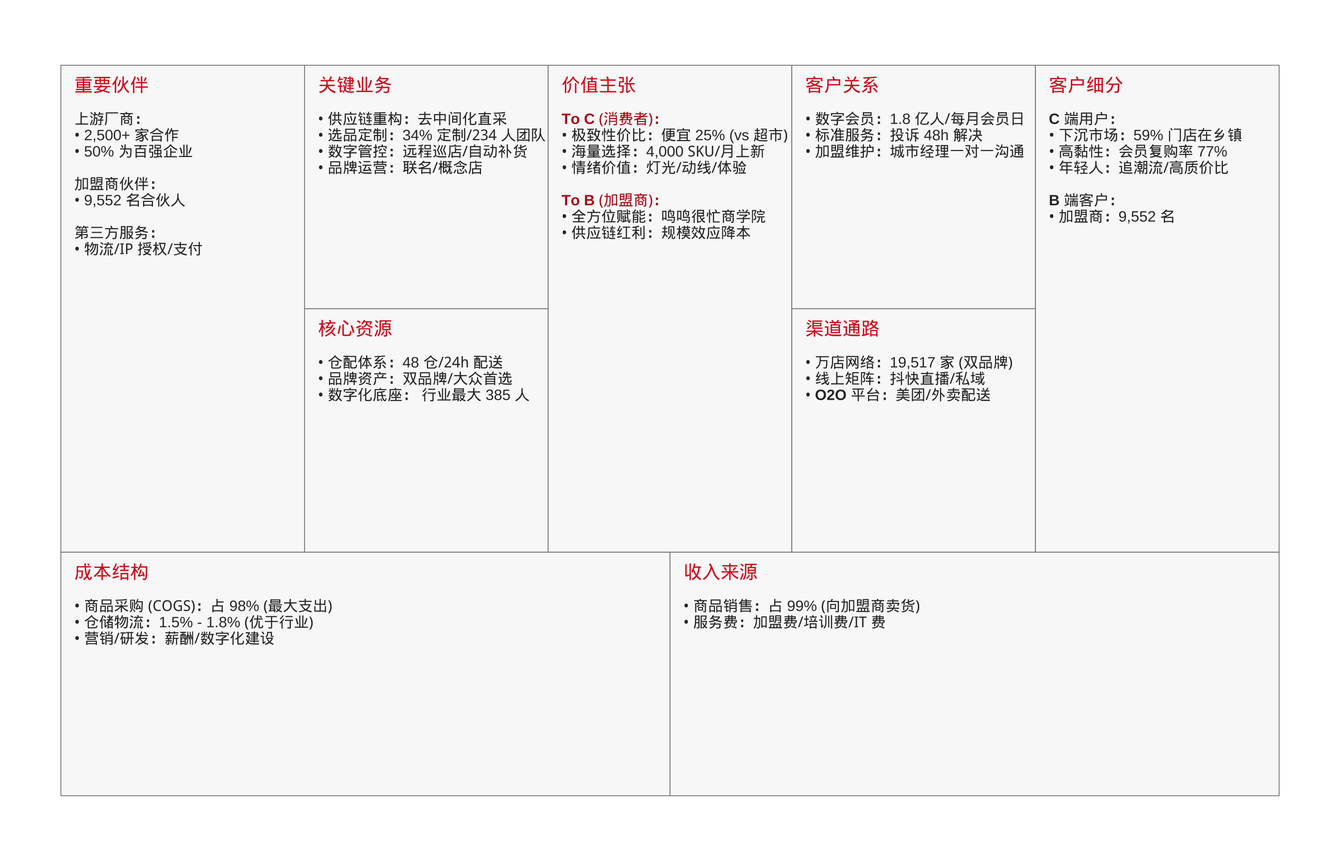
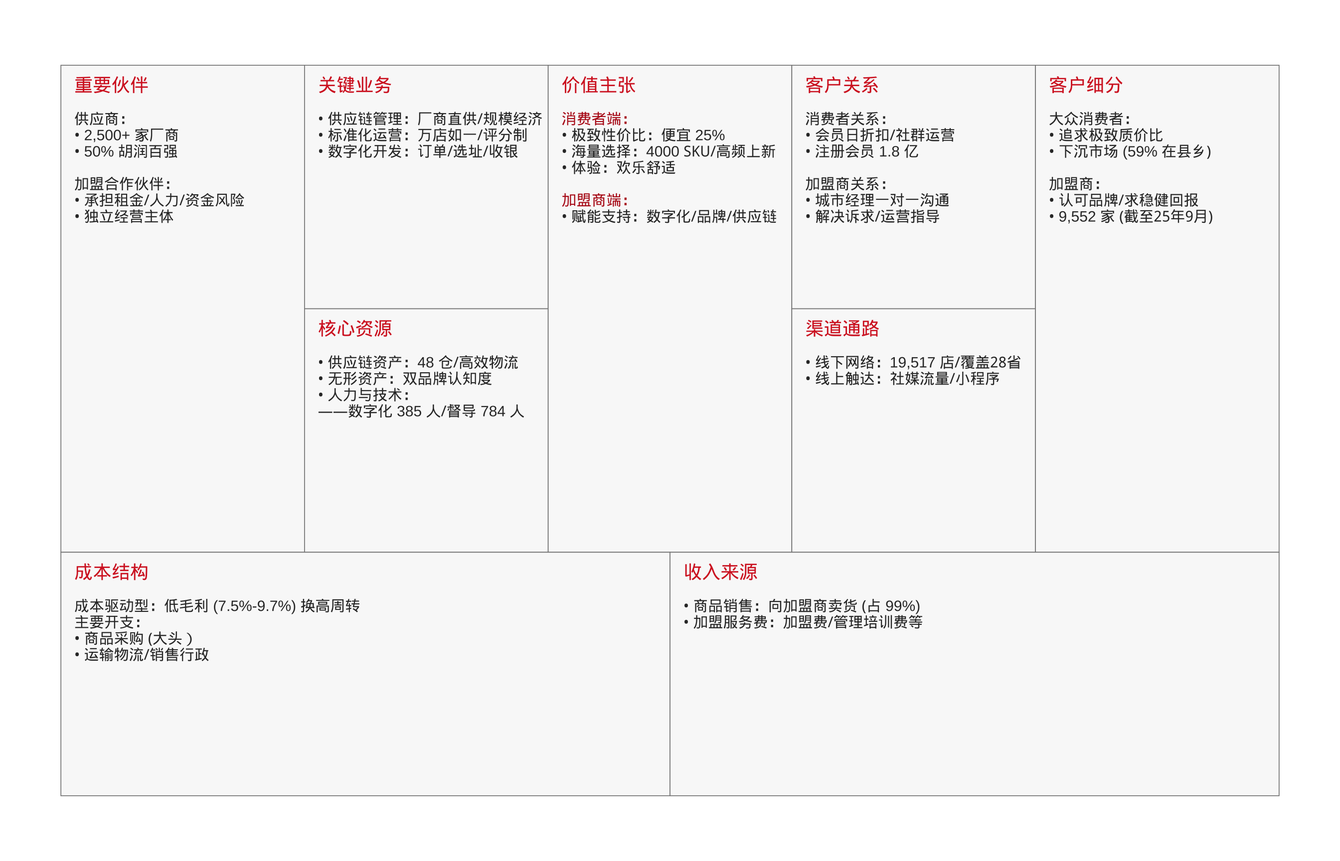
Built site for gh-pages

diff --git a/index.html b/index.html
@@ -237,7 +237,7 @@ window.Quarto = {
 
 <div class="quarto-listing quarto-listing-container-default" id="listing-listing">
 <div class="list quarto-listing-default">
-<div class="quarto-post image-right" data-index="0" data-categories="JUU2JThBJTk1JUU3JUEwJTk0JUU3JUFDJTk0JUU4JUFFJUIw" data-listing-date-sort="1768608000000" data-listing-file-modified-sort="1769174898353" data-listing-date-modified-sort="1769174898000" data-listing-reading-time-sort="4" data-listing-word-count-sort="635">
+<div class="quarto-post image-right" data-index="0" data-categories="JUU2JThBJTk1JUU3JUEwJTk0JUU3JUFDJTk0JUU4JUFFJUIw" data-listing-date-sort="1768608000000" data-listing-file-modified-sort="1769270650529" data-listing-date-modified-sort="1769270650000" data-listing-reading-time-sort="4" data-listing-word-count-sort="614">
 <div class="thumbnail"><a href="./posts/2026-01-17-busy-ming/index.html" class="no-external">
 
 <img loading="lazy" src="./posts/2026-01-17-busy-ming/busy-ming.png" class="thumbnail-image">
@@ -265,7 +265,7 @@ window.Quarto = {
 </a>
 </div>
 </div>
-<div class="quarto-post image-right" data-index="1" data-categories="JUU3JTk0JTlGJUU2JUI0JUJCJUU5JTlBJThGJUU3JUFDJTk0" data-listing-date-sort="1768089600000" data-listing-file-modified-sort="1769174898350" data-listing-date-modified-sort="1769174898000" data-listing-reading-time-sort="1" data-listing-word-count-sort="9">
+<div class="quarto-post image-right" data-index="1" data-categories="JUU3JTk0JTlGJUU2JUI0JUJCJUU5JTlBJThGJUU3JUFDJTk0" data-listing-date-sort="1768089600000" data-listing-file-modified-sort="1769270650526" data-listing-date-modified-sort="1769270650000" data-listing-reading-time-sort="1" data-listing-word-count-sort="9">
 <div class="thumbnail"><a href="./posts/2026-01-11-your-name/index.html" class="no-external">
 
 <img loading="lazy" src="./posts/2026-01-11-your-name/yebao.jpeg" class="thumbnail-image">
@@ -293,7 +293,7 @@ window.Quarto = {
 </a>
 </div>
 </div>
-<div class="quarto-post image-right" data-index="2" data-categories="JUU1JTg1JUIxJUU3JTk0JTlGJUU2JTk5JUJBJUU4JTgzJUJE" data-listing-date-sort="1767571200000" data-listing-file-modified-sort="1769174898349" data-listing-date-modified-sort="1769174898000" data-listing-reading-time-sort="2" data-listing-word-count-sort="244">
+<div class="quarto-post image-right" data-index="2" data-categories="JUU1JTg1JUIxJUU3JTk0JTlGJUU2JTk5JUJBJUU4JTgzJUJE" data-listing-date-sort="1767571200000" data-listing-file-modified-sort="1769270650525" data-listing-date-modified-sort="1769270650000" data-listing-reading-time-sort="2" data-listing-word-count-sort="244">
 <div class="thumbnail"><a href="./posts/2026-01-05-private-windows-rdp-with-tailscale/index.html" class="no-external">
 
 <img loading="lazy" src="./posts/2026-01-05-private-windows-rdp-with-tailscale/vera-lee-bird-kb4M9f0_sVo-unsplash.jpg" class="thumbnail-image">
@@ -321,7 +321,7 @@ window.Quarto = {
 </a>
 </div>
 </div>
-<div class="quarto-post image-right" data-index="3" data-categories="JUU1JTg1JUIxJUU3JTk0JTlGJUU2JTk5JUJBJUU4JTgzJUJE" data-listing-date-sort="1767312000000" data-listing-file-modified-sort="1769174898349" data-listing-date-modified-sort="1769174898000" data-listing-reading-time-sort="1" data-listing-word-count-sort="194">
+<div class="quarto-post image-right" data-index="3" data-categories="JUU1JTg1JUIxJUU3JTk0JTlGJUU2JTk5JUJBJUU4JTgzJUJE" data-listing-date-sort="1767312000000" data-listing-file-modified-sort="1769270650525" data-listing-date-modified-sort="1769270650000" data-listing-reading-time-sort="1" data-listing-word-count-sort="194">
 <div class="thumbnail"><a href="./posts/2026-01-02-when-code-feels-like-drowning/index.html" class="no-external">
 
 <img loading="lazy" src="./posts/2026-01-02-when-code-feels-like-drowning/ddp-gF61AW7IOZs-unsplash.jpg" class="thumbnail-image">
@@ -349,7 +349,7 @@ window.Quarto = {
 </a>
 </div>
 </div>
-<div class="quarto-post image-right" data-index="4" data-categories="JUU2JThBJTk1JUU3JUEwJTk0JUU3JUFDJTk0JUU4JUFFJUIw" data-listing-date-sort="1757203200000" data-listing-file-modified-sort="1769174898349" data-listing-date-modified-sort="1769174898000" data-listing-reading-time-sort="2" data-listing-word-count-sort="328">
+<div class="quarto-post image-right" data-index="4" data-categories="JUU2JThBJTk1JUU3JUEwJTk0JUU3JUFDJTk0JUU4JUFFJUIw" data-listing-date-sort="1757203200000" data-listing-file-modified-sort="1769270650525" data-listing-date-modified-sort="1769270650000" data-listing-reading-time-sort="2" data-listing-word-count-sort="328">
 <div class="thumbnail"><a href="./posts/2025-09-06-a-tradable-measure-of-the-us-china-yield-spread/index.html" class="no-external">
 
 <img loading="lazy" src="./posts/2025-09-06-a-tradable-measure-of-the-us-china-yield-spread/image/portrait_john_maynard_keynes_hi.jpg" class="thumbnail-image">
@@ -377,7 +377,7 @@ window.Quarto = {
 </a>
 </div>
 </div>
-<div class="quarto-post image-right" data-index="5" data-categories="JUU2JThBJTk1JUU3JUEwJTk0JUU3JUFDJTk0JUU4JUFFJUIw" data-listing-date-sort="1751328000000" data-listing-file-modified-sort="1769174898348" data-listing-date-modified-sort="1769174898000" data-listing-reading-time-sort="1" data-listing-word-count-sort="56">
+<div class="quarto-post image-right" data-index="5" data-categories="JUU2JThBJTk1JUU3JUEwJTk0JUU3JUFDJTk0JUU4JUFFJUIw" data-listing-date-sort="1751328000000" data-listing-file-modified-sort="1769270650524" data-listing-date-modified-sort="1769270650000" data-listing-reading-time-sort="1" data-listing-word-count-sort="56">
 <div class="thumbnail"><a href="./posts/2025-07-01-beijing-shougang-lanzatech/index.html" class="no-external">
 
 <img loading="lazy" src="./posts/2025-07-01-beijing-shougang-lanzatech/image/ronan-furuta-MTPVwuNEn9Q-unsplash.jpg" class="thumbnail-image">
@@ -405,7 +405,7 @@ window.Quarto = {
 </a>
 </div>
 </div>
-<div class="quarto-post image-right" data-index="6" data-categories="JUU1JTg1JUIxJUU3JTk0JTlGJUU2JTk5JUJBJUU4JTgzJUJE" data-listing-date-sort="1749340800000" data-listing-file-modified-sort="1769174898346" data-listing-date-modified-sort="1769174898000" data-listing-reading-time-sort="4" data-listing-word-count-sort="730">
+<div class="quarto-post image-right" data-index="6" data-categories="JUU1JTg1JUIxJUU3JTk0JTlGJUU2JTk5JUJBJUU4JTgzJUJE" data-listing-date-sort="1749340800000" data-listing-file-modified-sort="1769270650522" data-listing-date-modified-sort="1769270650000" data-listing-reading-time-sort="4" data-listing-word-count-sort="730">
 <div class="thumbnail"><a href="./posts/2025-06-08-tableau-server-single-node-quick-deployment/index.html" class="no-external">
 
 <img loading="lazy" src="./posts/2025-06-08-tableau-server-single-node-quick-deployment/image/ayush-kumar-UltEQuF-MII-unsplash.jpg" class="thumbnail-image">
@@ -433,7 +433,7 @@ window.Quarto = {
 </a>
 </div>
 </div>
-<div class="quarto-post image-right" data-index="7" data-categories="JUU1JTg1JUIxJUU3JTk0JTlGJUU2JTk5JUJBJUU4JTgzJUJE" data-listing-date-sort="1707004800000" data-listing-file-modified-sort="1769174898339" data-listing-date-modified-sort="1769174898000" data-listing-reading-time-sort="2" data-listing-word-count-sort="312">
+<div class="quarto-post image-right" data-index="7" data-categories="JUU1JTg1JUIxJUU3JTk0JTlGJUU2JTk5JUJBJUU4JTgzJUJE" data-listing-date-sort="1707004800000" data-listing-file-modified-sort="1769270650515" data-listing-date-modified-sort="1769270650000" data-listing-reading-time-sort="2" data-listing-word-count-sort="312">
 <div class="thumbnail"><a href="./posts/2024-02-04-reproducible-industry-research-report/index.html" class="no-external">
 
 <img loading="lazy" src="./posts/2024-02-04-reproducible-industry-research-report/image/gabriel-sollmann-Y7d265_7i08-unsplash.jpg" class="thumbnail-image">
@@ -461,7 +461,7 @@ window.Quarto = {
 </a>
 </div>
 </div>
-<div class="quarto-post image-right" data-index="8" data-categories="JUU2JThBJTk1JUU3JUEwJTk0JUU3JUFDJTk0JUU4JUFFJUIw" data-listing-date-sort="1687219200000" data-listing-file-modified-sort="1769174898328" data-listing-date-modified-sort="NaN" data-listing-reading-time-sort="12" data-listing-word-count-sort="2251">
+<div class="quarto-post image-right" data-index="8" data-categories="JUU2JThBJTk1JUU3JUEwJTk0JUU3JUFDJTk0JUU4JUFFJUIw" data-listing-date-sort="1687219200000" data-listing-file-modified-sort="1769270650504" data-listing-date-modified-sort="NaN" data-listing-reading-time-sort="12" data-listing-word-count-sort="2251">
 <div class="thumbnail"><a href="./posts/2023-06-20-sf-express/index.html" class="no-external">
 
 <img loading="lazy" src="./posts/2023-06-20-sf-express/image/jaanus-jagomagi-U7vum_kpfAo-unsplash.jpg" class="thumbnail-image">
@@ -489,7 +489,7 @@ window.Quarto = {
 </a>
 </div>
 </div>
-<div class="quarto-post image-right" data-index="9" data-categories="JUU3JTk0JTlGJUU2JUI0JUJCJUU5JTlBJThGJUU3JUFDJTk0" data-listing-date-sort="1588291200000" data-listing-file-modified-sort="1769174898340" data-listing-date-modified-sort="1769174898000" data-listing-reading-time-sort="1" data-listing-word-count-sort="92">
+<div class="quarto-post image-right" data-index="9" data-categories="JUU3JTk0JTlGJUU2JUI0JUJCJUU5JTlBJThGJUU3JUFDJTk0" data-listing-date-sort="1588291200000" data-listing-file-modified-sort="1769270650516" data-listing-date-modified-sort="1769270650000" data-listing-reading-time-sort="1" data-listing-word-count-sort="92">
 <div class="thumbnail"><a href="./posts/2024-05-22-steam-mini-lobster/index.html" class="no-external">
 
 <img loading="lazy" data-src="./posts/2024-05-22-steam-mini-lobster/image/pose.jpg" class="thumbnail-image">

diff --git a/columns/hybrid.html b/columns/hybrid.html
@@ -250,7 +250,7 @@ window.Quarto = {
 
 <div class="quarto-listing quarto-listing-container-default" id="listing-listing">
 <div class="list quarto-listing-default">
-<div class="quarto-post image-right" data-index="0" data-categories="JUU1JTg1JUIxJUU3JTk0JTlGJUU2JTk5JUJBJUU4JTgzJUJE" data-listing-date-sort="1767571200000" data-listing-file-modified-sort="1769174898349" data-listing-date-modified-sort="1769174898000" data-listing-reading-time-sort="2" data-listing-word-count-sort="244">
+<div class="quarto-post image-right" data-index="0" data-categories="JUU1JTg1JUIxJUU3JTk0JTlGJUU2JTk5JUJBJUU4JTgzJUJE" data-listing-date-sort="1767571200000" data-listing-file-modified-sort="1769270650525" data-listing-date-modified-sort="1769270650000" data-listing-reading-time-sort="2" data-listing-word-count-sort="244">
 <div class="thumbnail"><a href="../posts/2026-01-05-private-windows-rdp-with-tailscale/index.html" class="no-external">
 
 <img loading="lazy" src="../posts/2026-01-05-private-windows-rdp-with-tailscale/vera-lee-bird-kb4M9f0_sVo-unsplash.jpg" class="thumbnail-image">
@@ -278,7 +278,7 @@ window.Quarto = {
 </a>
 </div>
 </div>
-<div class="quarto-post image-right" data-index="1" data-categories="JUU1JTg1JUIxJUU3JTk0JTlGJUU2JTk5JUJBJUU4JTgzJUJE" data-listing-date-sort="1767312000000" data-listing-file-modified-sort="1769174898349" data-listing-date-modified-sort="1769174898000" data-listing-reading-time-sort="1" data-listing-word-count-sort="194">
+<div class="quarto-post image-right" data-index="1" data-categories="JUU1JTg1JUIxJUU3JTk0JTlGJUU2JTk5JUJBJUU4JTgzJUJE" data-listing-date-sort="1767312000000" data-listing-file-modified-sort="1769270650525" data-listing-date-modified-sort="1769270650000" data-listing-reading-time-sort="1" data-listing-word-count-sort="194">
 <div class="thumbnail"><a href="../posts/2026-01-02-when-code-feels-like-drowning/index.html" class="no-external">
 
 <img loading="lazy" src="../posts/2026-01-02-when-code-feels-like-drowning/ddp-gF61AW7IOZs-unsplash.jpg" class="thumbnail-image">
@@ -306,7 +306,7 @@ window.Quarto = {
 </a>
 </div>
 </div>
-<div class="quarto-post image-right" data-index="2" data-categories="JUU1JTg1JUIxJUU3JTk0JTlGJUU2JTk5JUJBJUU4JTgzJUJE" data-listing-date-sort="1749340800000" data-listing-file-modified-sort="1769174898346" data-listing-date-modified-sort="1769174898000" data-listing-reading-time-sort="4" data-listing-word-count-sort="730">
+<div class="quarto-post image-right" data-index="2" data-categories="JUU1JTg1JUIxJUU3JTk0JTlGJUU2JTk5JUJBJUU4JTgzJUJE" data-listing-date-sort="1749340800000" data-listing-file-modified-sort="1769270650522" data-listing-date-modified-sort="1769270650000" data-listing-reading-time-sort="4" data-listing-word-count-sort="730">
 <div class="thumbnail"><a href="../posts/2025-06-08-tableau-server-single-node-quick-deployment/index.html" class="no-external">
 
 <img loading="lazy" src="../posts/2025-06-08-tableau-server-single-node-quick-deployment/image/ayush-kumar-UltEQuF-MII-unsplash.jpg" class="thumbnail-image">
@@ -334,7 +334,7 @@ window.Quarto = {
 </a>
 </div>
 </div>
-<div class="quarto-post image-right" data-index="3" data-categories="JUU1JTg1JUIxJUU3JTk0JTlGJUU2JTk5JUJBJUU4JTgzJUJE" data-listing-date-sort="1707004800000" data-listing-file-modified-sort="1769174898339" data-listing-date-modified-sort="1769174898000" data-listing-reading-time-sort="2" data-listing-word-count-sort="312">
+<div class="quarto-post image-right" data-index="3" data-categories="JUU1JTg1JUIxJUU3JTk0JTlGJUU2JTk5JUJBJUU4JTgzJUJE" data-listing-date-sort="1707004800000" data-listing-file-modified-sort="1769270650515" data-listing-date-modified-sort="1769270650000" data-listing-reading-time-sort="2" data-listing-word-count-sort="312">
 <div class="thumbnail"><a href="../posts/2024-02-04-reproducible-industry-research-report/index.html" class="no-external">
 
 <img loading="lazy" src="../posts/2024-02-04-reproducible-industry-research-report/image/gabriel-sollmann-Y7d265_7i08-unsplash.jpg" class="thumbnail-image">

diff --git a/columns/symbiotic-ai.html b/columns/symbiotic-ai.html
@@ -250,7 +250,7 @@ window.Quarto = {
 
 <div class="quarto-listing quarto-listing-container-default" id="listing-listing">
 <div class="list quarto-listing-default">
-<div class="quarto-post image-right" data-index="0" data-categories="JUU1JTg1JUIxJUU3JTk0JTlGJUU2JTk5JUJBJUU4JTgzJUJE" data-listing-date-sort="1767571200000" data-listing-file-modified-sort="1769174898349" data-listing-date-modified-sort="1769174898000" data-listing-reading-time-sort="2" data-listing-word-count-sort="244">
+<div class="quarto-post image-right" data-index="0" data-categories="JUU1JTg1JUIxJUU3JTk0JTlGJUU2JTk5JUJBJUU4JTgzJUJE" data-listing-date-sort="1767571200000" data-listing-file-modified-sort="1769270650525" data-listing-date-modified-sort="1769270650000" data-listing-reading-time-sort="2" data-listing-word-count-sort="244">
 <div class="thumbnail"><a href="../posts/2026-01-05-private-windows-rdp-with-tailscale/index.html" class="no-external">
 
 <img loading="lazy" src="../posts/2026-01-05-private-windows-rdp-with-tailscale/vera-lee-bird-kb4M9f0_sVo-unsplash.jpg" class="thumbnail-image">
@@ -278,7 +278,7 @@ window.Quarto = {
 </a>
 </div>
 </div>
-<div class="quarto-post image-right" data-index="1" data-categories="JUU1JTg1JUIxJUU3JTk0JTlGJUU2JTk5JUJBJUU4JTgzJUJE" data-listing-date-sort="1767312000000" data-listing-file-modified-sort="1769174898349" data-listing-date-modified-sort="1769174898000" data-listing-reading-time-sort="1" data-listing-word-count-sort="194">
+<div class="quarto-post image-right" data-index="1" data-categories="JUU1JTg1JUIxJUU3JTk0JTlGJUU2JTk5JUJBJUU4JTgzJUJE" data-listing-date-sort="1767312000000" data-listing-file-modified-sort="1769270650525" data-listing-date-modified-sort="1769270650000" data-listing-reading-time-sort="1" data-listing-word-count-sort="194">
 <div class="thumbnail"><a href="../posts/2026-01-02-when-code-feels-like-drowning/index.html" class="no-external">
 
 <img loading="lazy" src="../posts/2026-01-02-when-code-feels-like-drowning/ddp-gF61AW7IOZs-unsplash.jpg" class="thumbnail-image">
@@ -306,7 +306,7 @@ window.Quarto = {
 </a>
 </div>
 </div>
-<div class="quarto-post image-right" data-index="2" data-categories="JUU1JTg1JUIxJUU3JTk0JTlGJUU2JTk5JUJBJUU4JTgzJUJE" data-listing-date-sort="1749340800000" data-listing-file-modified-sort="1769174898346" data-listing-date-modified-sort="1769174898000" data-listing-reading-time-sort="4" data-listing-word-count-sort="730">
+<div class="quarto-post image-right" data-index="2" data-categories="JUU1JTg1JUIxJUU3JTk0JTlGJUU2JTk5JUJBJUU4JTgzJUJE" data-listing-date-sort="1749340800000" data-listing-file-modified-sort="1769270650522" data-listing-date-modified-sort="1769270650000" data-listing-reading-time-sort="4" data-listing-word-count-sort="730">
 <div class="thumbnail"><a href="../posts/2025-06-08-tableau-server-single-node-quick-deployment/index.html" class="no-external">
 
 <img loading="lazy" src="../posts/2025-06-08-tableau-server-single-node-quick-deployment/image/ayush-kumar-UltEQuF-MII-unsplash.jpg" class="thumbnail-image">
@@ -334,7 +334,7 @@ window.Quarto = {
 </a>
 </div>
 </div>
-<div class="quarto-post image-right" data-index="3" data-categories="JUU1JTg1JUIxJUU3JTk0JTlGJUU2JTk5JUJBJUU4JTgzJUJE" data-listing-date-sort="1707004800000" data-listing-file-modified-sort="1769174898339" data-listing-date-modified-sort="1769174898000" data-listing-reading-time-sort="2" data-listing-word-count-sort="312">
+<div class="quarto-post image-right" data-index="3" data-categories="JUU1JTg1JUIxJUU3JTk0JTlGJUU2JTk5JUJBJUU4JTgzJUJE" data-listing-date-sort="1707004800000" data-listing-file-modified-sort="1769270650515" data-listing-date-modified-sort="1769270650000" data-listing-reading-time-sort="2" data-listing-word-count-sort="312">
 <div class="thumbnail"><a href="../posts/2024-02-04-reproducible-industry-research-report/index.html" class="no-external">
 
 <img loading="lazy" src="../posts/2024-02-04-reproducible-industry-research-report/image/gabriel-sollmann-Y7d265_7i08-unsplash.jpg" class="thumbnail-image">

diff --git a/columns/investment.html b/columns/investment.html
@@ -252,7 +252,7 @@ window.Quarto = {
 
 <div class="quarto-listing quarto-listing-container-default" id="listing-listing">
 <div class="list quarto-listing-default">
-<div class="quarto-post image-right" data-index="0" data-categories="JUU2JThBJTk1JUU3JUEwJTk0JUU3JUFDJTk0JUU4JUFFJUIw" data-listing-date-sort="1768608000000" data-listing-file-modified-sort="1769174898353" data-listing-date-modified-sort="1769174898000" data-listing-reading-time-sort="4" data-listing-word-count-sort="635">
+<div class="quarto-post image-right" data-index="0" data-categories="JUU2JThBJTk1JUU3JUEwJTk0JUU3JUFDJTk0JUU4JUFFJUIw" data-listing-date-sort="1768608000000" data-listing-file-modified-sort="1769270650529" data-listing-date-modified-sort="1769270650000" data-listing-reading-time-sort="4" data-listing-word-count-sort="614">
 <div class="thumbnail"><a href="../posts/2026-01-17-busy-ming/index.html" class="no-external">
 
 <img loading="lazy" src="../posts/2026-01-17-busy-ming/busy-ming.png" class="thumbnail-image">
@@ -280,7 +280,7 @@ window.Quarto = {
 </a>
 </div>
 </div>
-<div class="quarto-post image-right" data-index="1" data-categories="JUU2JThBJTk1JUU3JUEwJTk0JUU3JUFDJTk0JUU4JUFFJUIw" data-listing-date-sort="1757203200000" data-listing-file-modified-sort="1769174898349" data-listing-date-modified-sort="1769174898000" data-listing-reading-time-sort="2" data-listing-word-count-sort="328">
+<div class="quarto-post image-right" data-index="1" data-categories="JUU2JThBJTk1JUU3JUEwJTk0JUU3JUFDJTk0JUU4JUFFJUIw" data-listing-date-sort="1757203200000" data-listing-file-modified-sort="1769270650525" data-listing-date-modified-sort="1769270650000" data-listing-reading-time-sort="2" data-listing-word-count-sort="328">
 <div class="thumbnail"><a href="../posts/2025-09-06-a-tradable-measure-of-the-us-china-yield-spread/index.html" class="no-external">
 
 <img loading="lazy" src="../posts/2025-09-06-a-tradable-measure-of-the-us-china-yield-spread/image/portrait_john_maynard_keynes_hi.jpg" class="thumbnail-image">
@@ -308,7 +308,7 @@ window.Quarto = {
 </a>
 </div>
 </div>
-<div class="quarto-post image-right" data-index="2" data-categories="JUU2JThBJTk1JUU3JUEwJTk0JUU3JUFDJTk0JUU4JUFFJUIw" data-listing-date-sort="1751328000000" data-listing-file-modified-sort="1769174898348" data-listing-date-modified-sort="1769174898000" data-listing-reading-time-sort="1" data-listing-word-count-sort="56">
+<div class="quarto-post image-right" data-index="2" data-categories="JUU2JThBJTk1JUU3JUEwJTk0JUU3JUFDJTk0JUU4JUFFJUIw" data-listing-date-sort="1751328000000" data-listing-file-modified-sort="1769270650524" data-listing-date-modified-sort="1769270650000" data-listing-reading-time-sort="1" data-listing-word-count-sort="56">
 <div class="thumbnail"><a href="../posts/2025-07-01-beijing-shougang-lanzatech/index.html" class="no-external">
 
 <img loading="lazy" src="../posts/2025-07-01-beijing-shougang-lanzatech/image/ronan-furuta-MTPVwuNEn9Q-unsplash.jpg" class="thumbnail-image">
@@ -336,7 +336,7 @@ window.Quarto = {
 </a>
 </div>
 </div>
-<div class="quarto-post image-right" data-index="3" data-categories="JUU2JThBJTk1JUU3JUEwJTk0JUU3JUFDJTk0JUU4JUFFJUIw" data-listing-date-sort="1687219200000" data-listing-file-modified-sort="1769174898328" data-listing-date-modified-sort="NaN" data-listing-reading-time-sort="12" data-listing-word-count-sort="2251">
+<div class="quarto-post image-right" data-index="3" data-categories="JUU2JThBJTk1JUU3JUEwJTk0JUU3JUFDJTk0JUU4JUFFJUIw" data-listing-date-sort="1687219200000" data-listing-file-modified-sort="1769270650504" data-listing-date-modified-sort="NaN" data-listing-reading-time-sort="12" data-listing-word-count-sort="2251">
 <div class="thumbnail"><a href="../posts/2023-06-20-sf-express/index.html" class="no-external">
 
 <img loading="lazy" src="../posts/2023-06-20-sf-express/image/jaanus-jagomagi-U7vum_kpfAo-unsplash.jpg" class="thumbnail-image">

diff --git a/columns/life.html b/columns/life.html
@@ -250,7 +250,7 @@ window.Quarto = {
 
 <div class="quarto-listing quarto-listing-container-default" id="listing-listing">
 <div class="list quarto-listing-default">
-<div class="quarto-post image-right" data-index="0" data-categories="JUU3JTk0JTlGJUU2JUI0JUJCJUU5JTlBJThGJUU3JUFDJTk0" data-listing-date-sort="1768089600000" data-listing-file-modified-sort="1769174898350" data-listing-date-modified-sort="1769174898000" data-listing-reading-time-sort="1" data-listing-word-count-sort="9">
+<div class="quarto-post image-right" data-index="0" data-categories="JUU3JTk0JTlGJUU2JUI0JUJCJUU5JTlBJThGJUU3JUFDJTk0" data-listing-date-sort="1768089600000" data-listing-file-modified-sort="1769270650526" data-listing-date-modified-sort="1769270650000" data-listing-reading-time-sort="1" data-listing-word-count-sort="9">
 <div class="thumbnail"><a href="../posts/2026-01-11-your-name/index.html" class="no-external">
 
 <img loading="lazy" src="../posts/2026-01-11-your-name/yebao.jpeg" class="thumbnail-image">
@@ -278,7 +278,7 @@ window.Quarto = {
 </a>
 </div>
 </div>
-<div class="quarto-post image-right" data-index="1" data-categories="JUU3JTk0JTlGJUU2JUI0JUJCJUU5JTlBJThGJUU3JUFDJTk0" data-listing-date-sort="1588291200000" data-listing-file-modified-sort="1769174898340" data-listing-date-modified-sort="1769174898000" data-listing-reading-time-sort="1" data-listing-word-count-sort="92">
+<div class="quarto-post image-right" data-index="1" data-categories="JUU3JTk0JTlGJUU2JUI0JUJCJUU5JTlBJThGJUU3JUFDJTk0" data-listing-date-sort="1588291200000" data-listing-file-modified-sort="1769270650516" data-listing-date-modified-sort="1769270650000" data-listing-reading-time-sort="1" data-listing-word-count-sort="92">
 <div class="thumbnail"><a href="../posts/2024-05-22-steam-mini-lobster/index.html" class="no-external">
 
 <img loading="lazy" src="../posts/2024-05-22-steam-mini-lobster/image/pose.jpg" class="thumbnail-image">

diff --git a/posts/2026-01-17-busy-ming/index.html b/posts/2026-01-17-busy-ming/index.html
@@ -219,7 +219,7 @@ gtag('config', 'G-1YFYY3SM29', { 'anonymize_ip': true});
     <div>
     <div class="quarto-title-meta-heading">修改日期</div>
     <div class="quarto-title-meta-contents">
-      <p class="date-modified">2026年1月23日</p>
+      <p class="date-modified">2026年1月24日</p>
     </div>
   </div>
     
@@ -290,6 +290,7 @@ gtag('config', 'G-1YFYY3SM29', { 'anonymize_ip': true});
 <section id="变更日志" class="level2" data-number="7">
 <h2 data-number="7" class="anchored" data-anchor-id="变更日志"><span class="header-section-number">7</span> 变更日志</h2>
 <ul>
+<li>250125 优化商业模式概览</li>
 <li>250123
 <ul>
 <li>商业模式概览，移除“共担资金、人力风险”</li>

diff --git a/posts/2024-02-04-reproducible-industry-research-report/index.html b/posts/2024-02-04-reproducible-industry-research-report/index.html
@@ -246,7 +246,7 @@ gtag('config', 'G-1YFYY3SM29', { 'anonymize_ip': true});
     <div>
     <div class="quarto-title-meta-heading">修改日期</div>
     <div class="quarto-title-meta-contents">
-      <p class="date-modified">2026年1月23日</p>
+      <p class="date-modified">2026年1月24日</p>
     </div>
   </div>
     

diff --git a/posts/2024-05-22-steam-mini-lobster/index.html b/posts/2024-05-22-steam-mini-lobster/index.html
@@ -208,7 +208,7 @@ gtag('config', 'G-1YFYY3SM29', { 'anonymize_ip': true});
     <div>
     <div class="quarto-title-meta-heading">修改日期</div>
     <div class="quarto-title-meta-contents">
-      <p class="date-modified">2026年1月23日</p>
+      <p class="date-modified">2026年1月24日</p>
     </div>
   </div>
     

diff --git a/posts/2025-06-08-tableau-server-single-node-quick-deployment/index.html b/posts/2025-06-08-tableau-server-single-node-quick-deployment/index.html
@@ -267,7 +267,7 @@ gtag('config', 'G-1YFYY3SM29', { 'anonymize_ip': true});
     <div>
     <div class="quarto-title-meta-heading">修改日期</div>
     <div class="quarto-title-meta-contents">
-      <p class="date-modified">2026年1月23日</p>
+      <p class="date-modified">2026年1月24日</p>
     </div>
   </div>
     

diff --git a/posts/2025-07-01-beijing-shougang-lanzatech/index.html b/posts/2025-07-01-beijing-shougang-lanzatech/index.html
@@ -215,7 +215,7 @@ gtag('config', 'G-1YFYY3SM29', { 'anonymize_ip': true});
     <div>
     <div class="quarto-title-meta-heading">修改日期</div>
     <div class="quarto-title-meta-contents">
-      <p class="date-modified">2026年1月23日</p>
+      <p class="date-modified">2026年1月24日</p>
     </div>
   </div>
     

diff --git a/posts/2026-01-02-when-code-feels-like-drowning/index.html b/posts/2026-01-02-when-code-feels-like-drowning/index.html
@@ -219,7 +219,7 @@ gtag('config', 'G-1YFYY3SM29', { 'anonymize_ip': true});
     <div>
     <div class="quarto-title-meta-heading">修改日期</div>
     <div class="quarto-title-meta-contents">
-      <p class="date-modified">2026年1月23日</p>
+      <p class="date-modified">2026年1月24日</p>
     </div>
   </div>
     

diff --git a/posts/2026-01-05-private-windows-rdp-with-tailscale/index.html b/posts/2026-01-05-private-windows-rdp-with-tailscale/index.html
@@ -224,7 +224,7 @@ gtag('config', 'G-1YFYY3SM29', { 'anonymize_ip': true});
     <div>
     <div class="quarto-title-meta-heading">修改日期</div>
     <div class="quarto-title-meta-contents">
-      <p class="date-modified">2026年1月23日</p>
+      <p class="date-modified">2026年1月24日</p>
     </div>
   </div>
     
